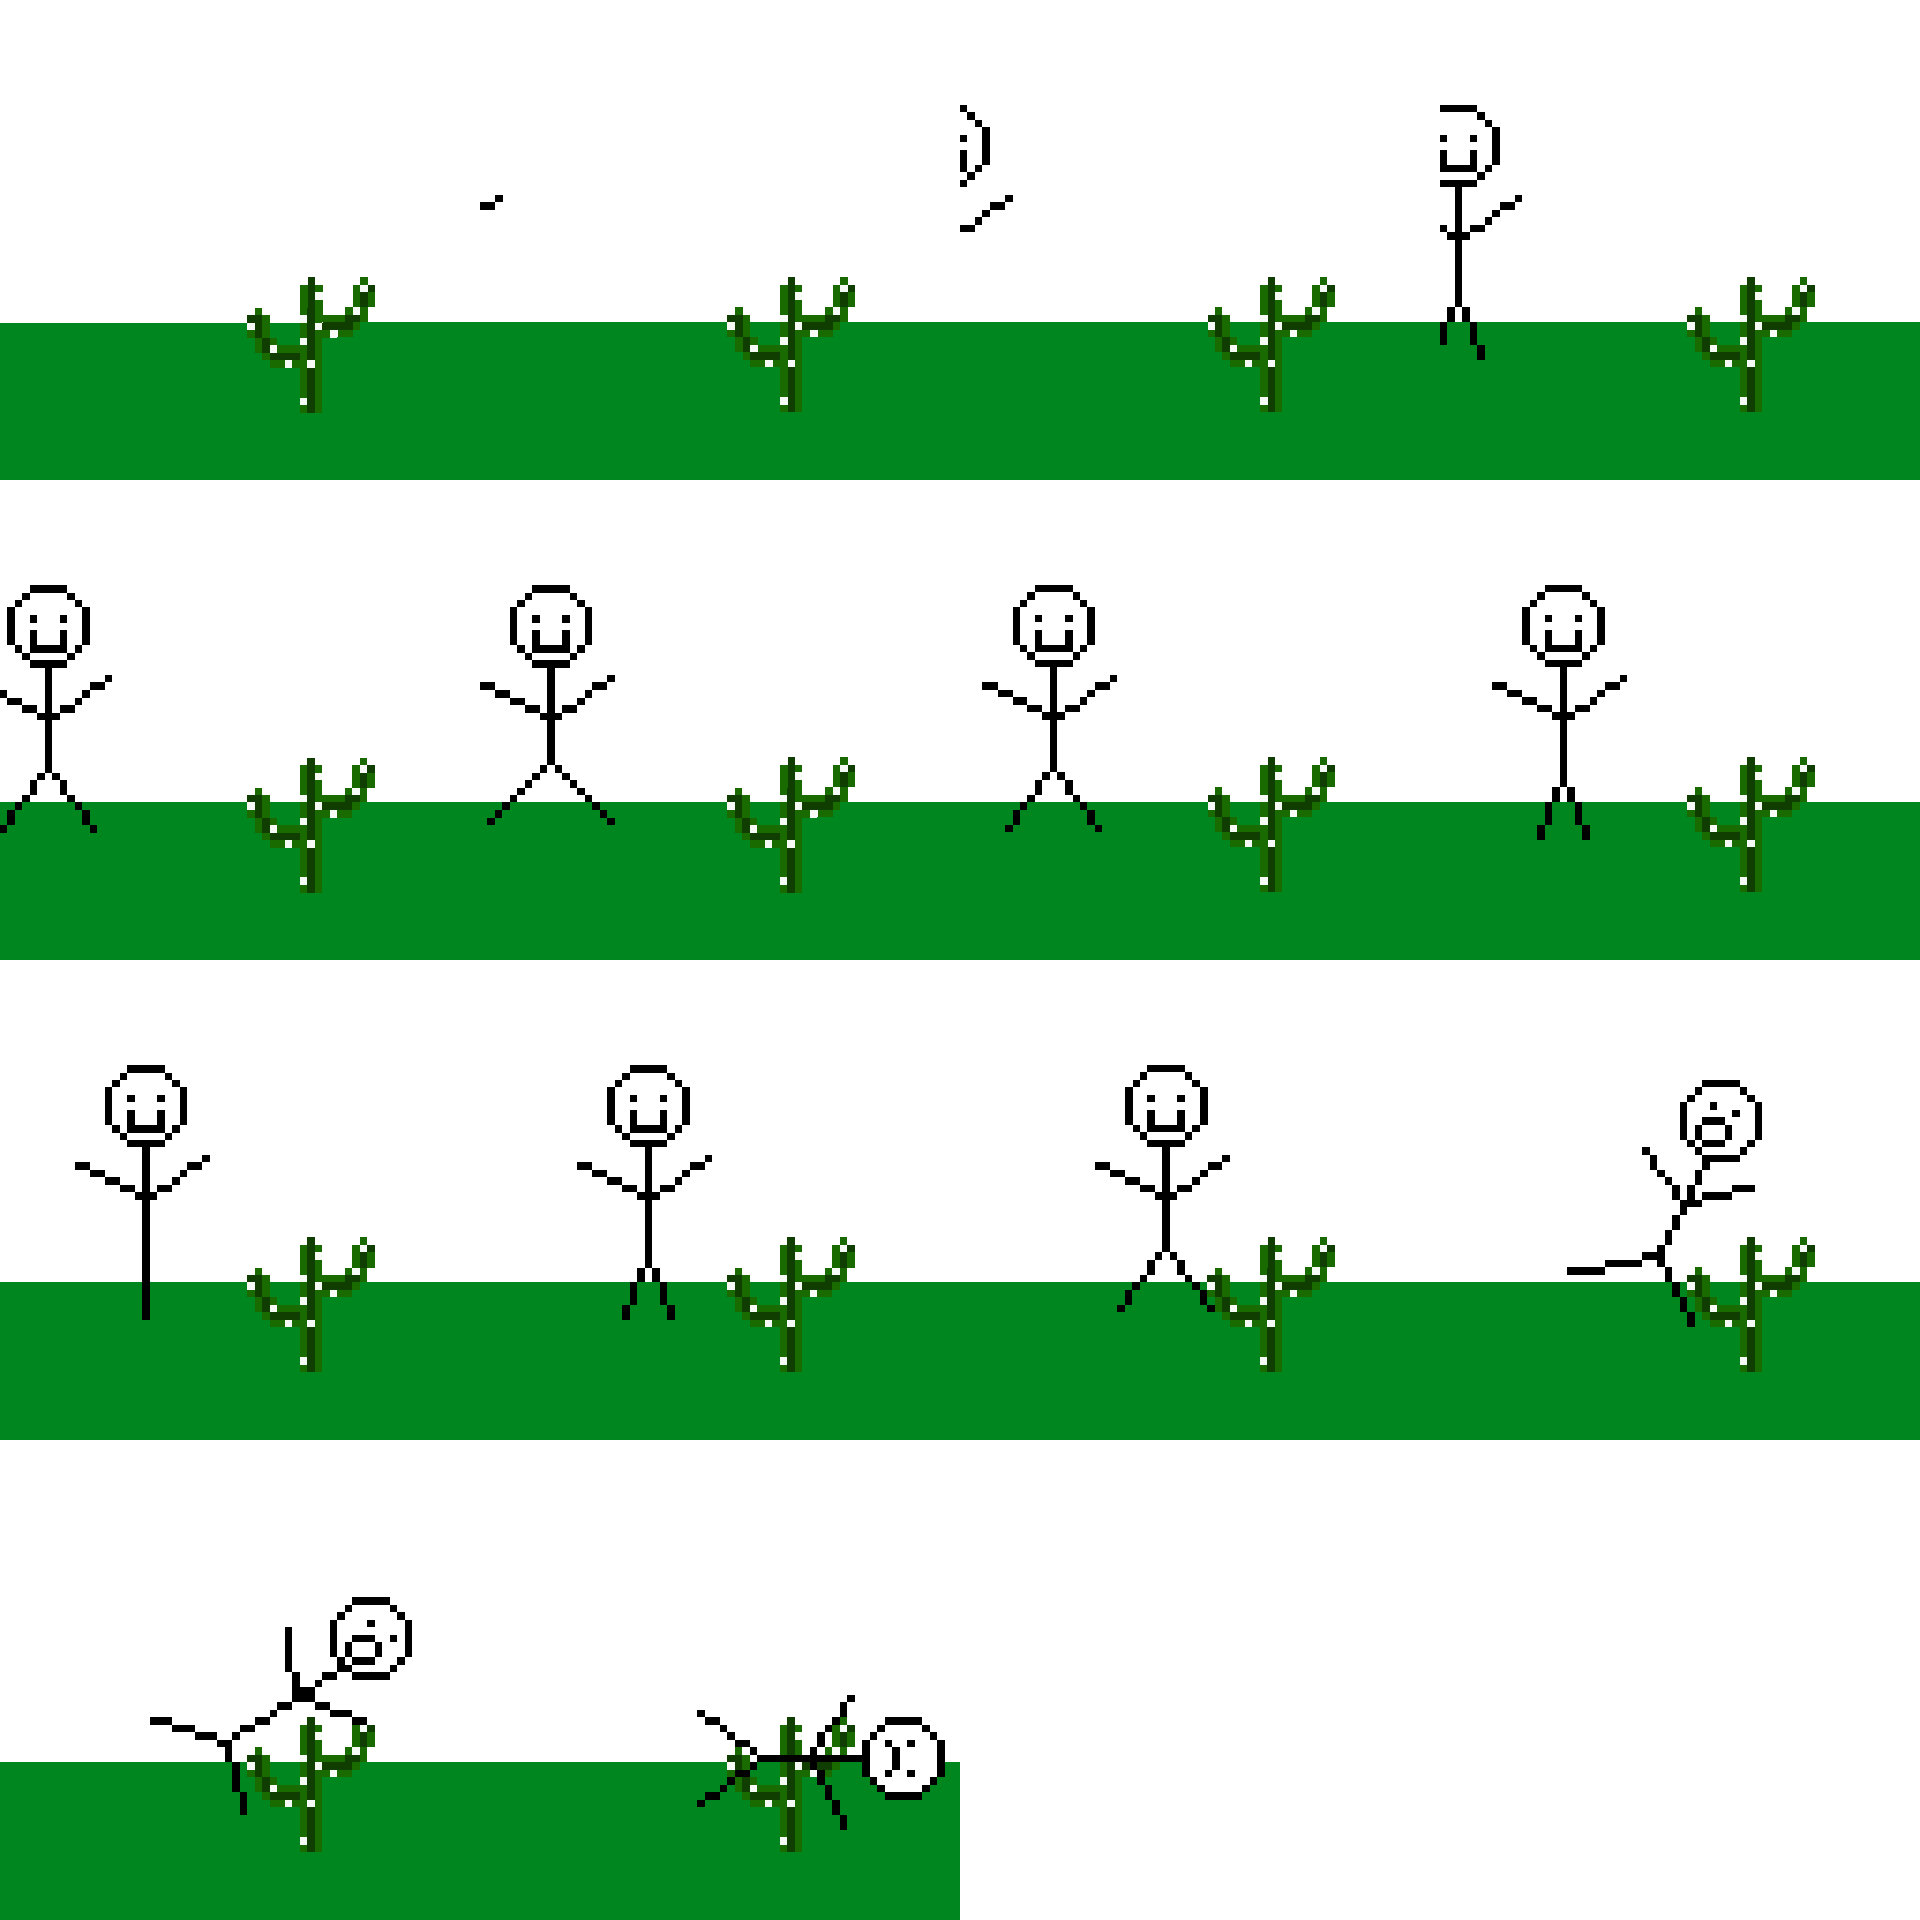
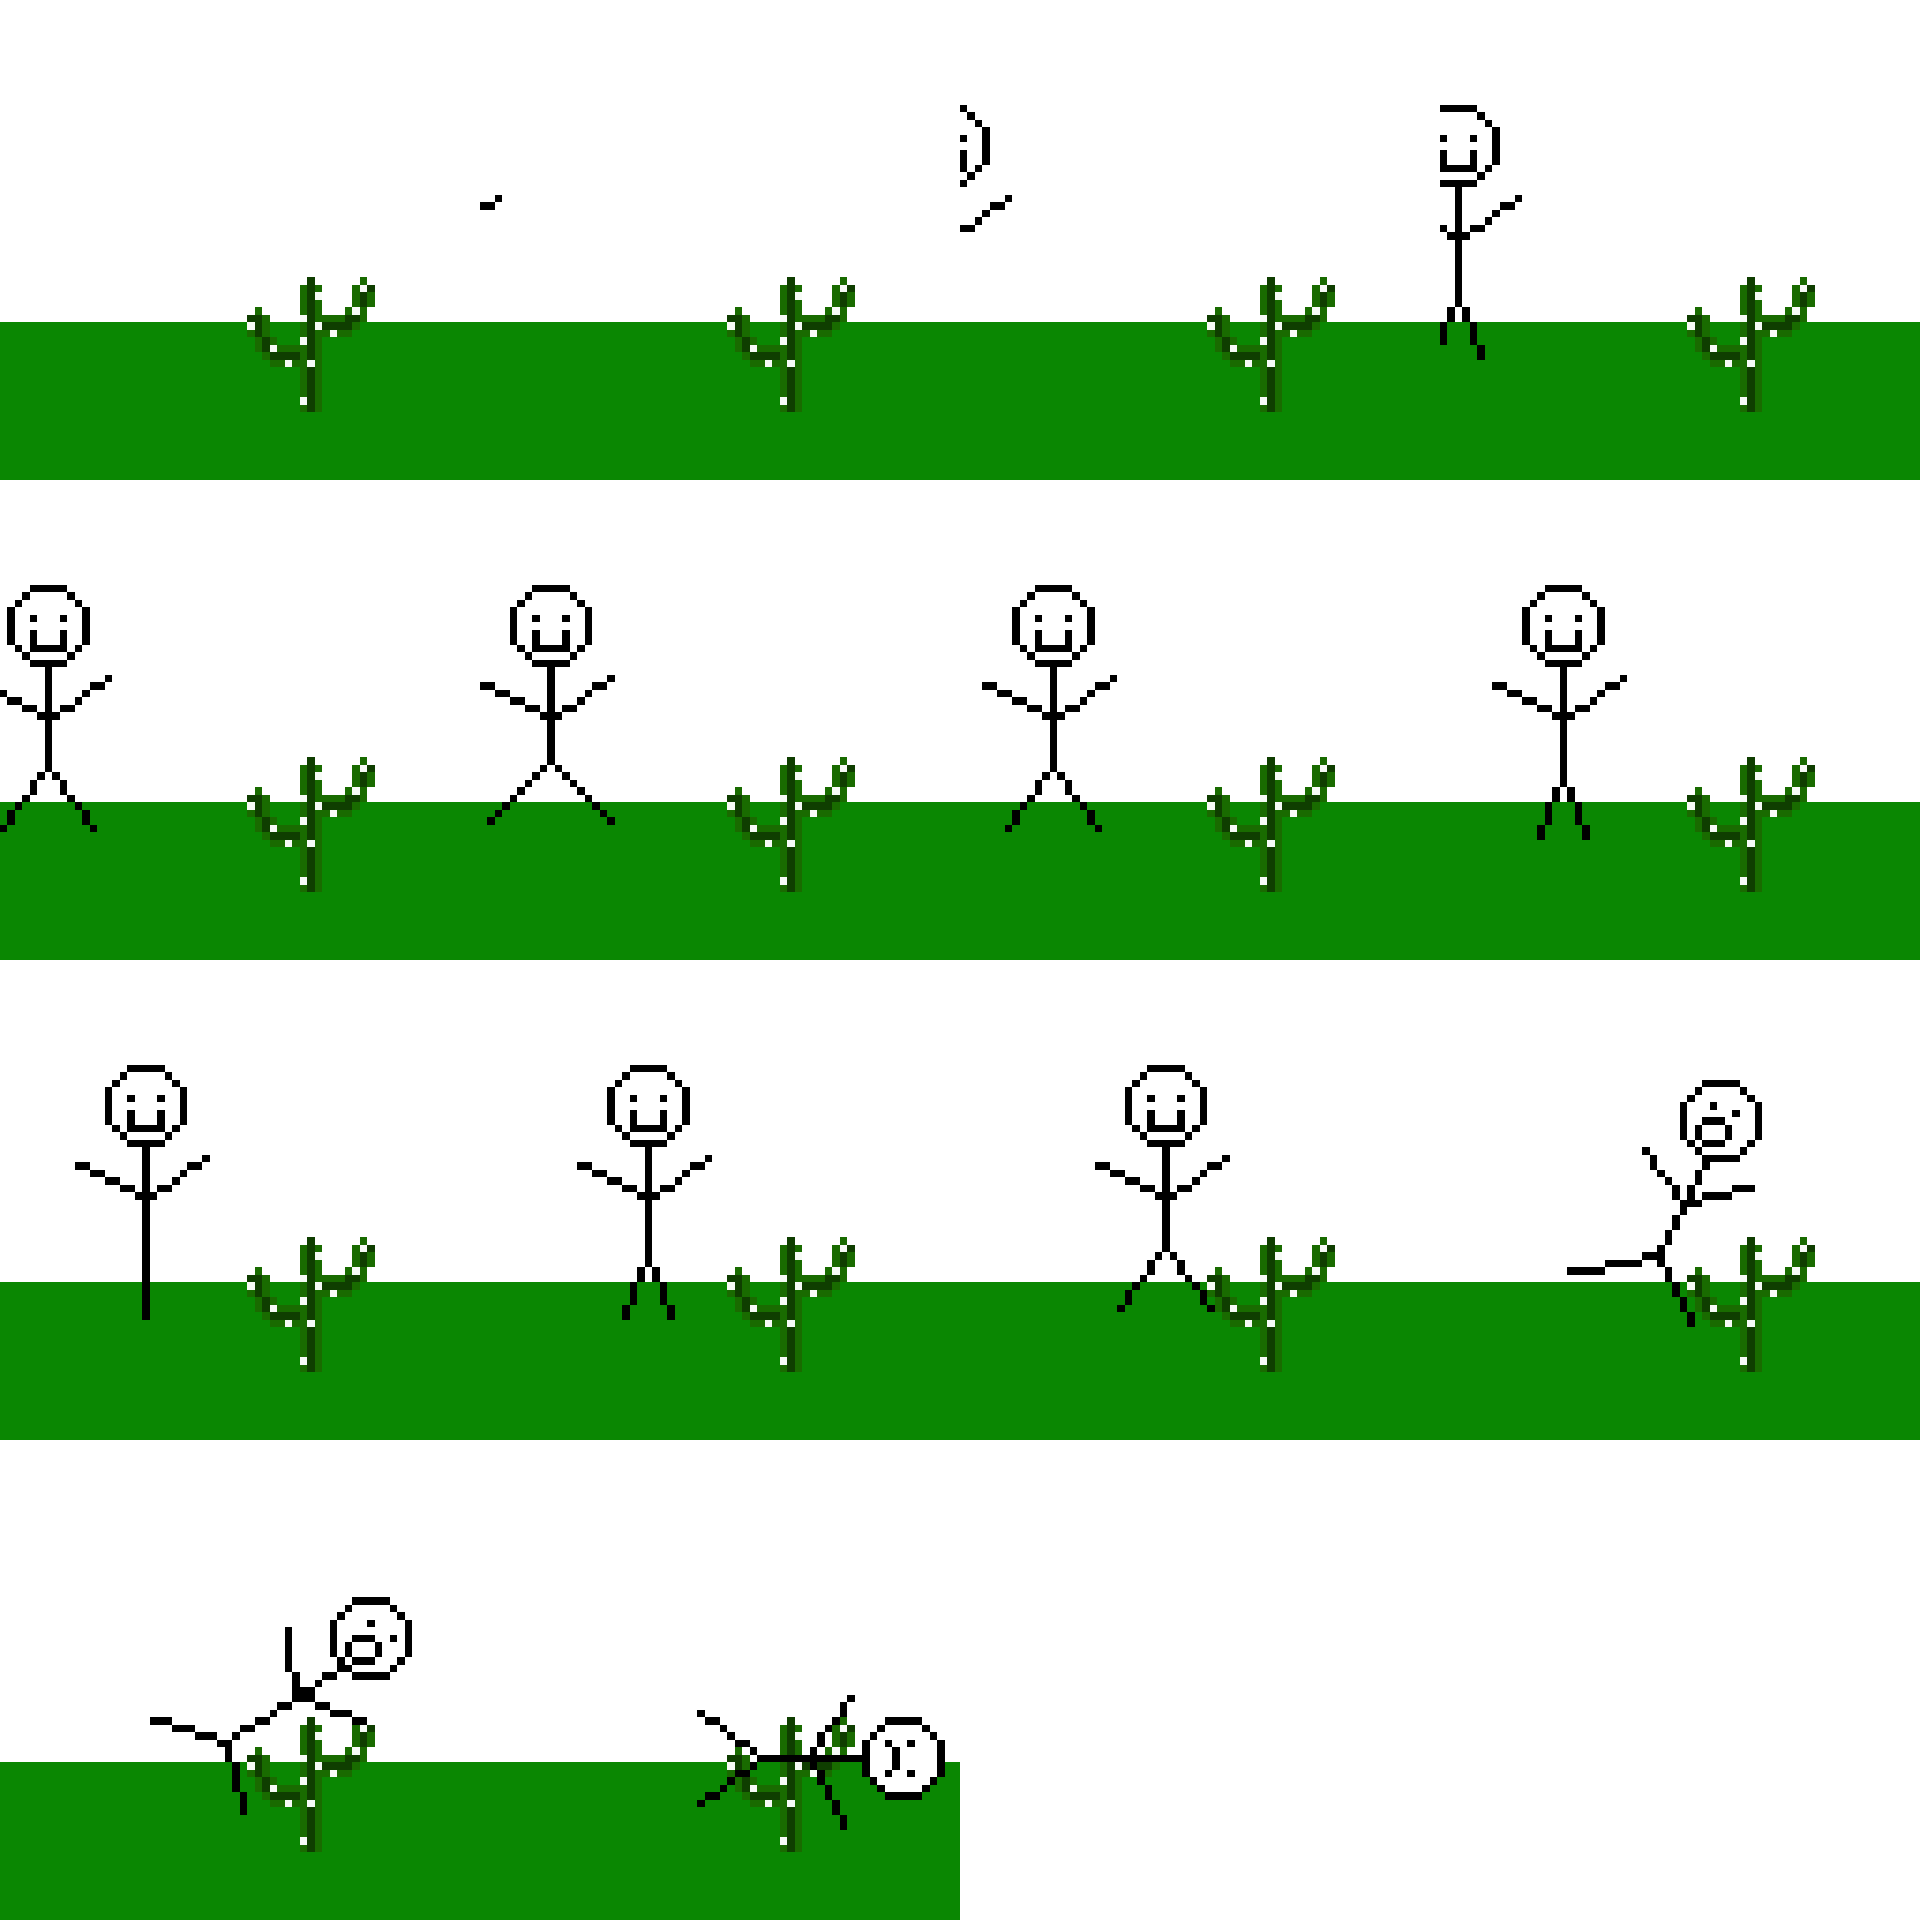
finish animations

diff --git a/app/front/public/animation_testing.html b/app/front/public/animation_testing.html
@@ -9,7 +9,7 @@
     <canvas id="draw_here" width="500" height="500" style="border:1px solid #000000;"></canvas>
     <div>
         <!--<p id="narration">{{narration}}</p>-->
-        <p id="narration">user was walking in the meadow on the hunt for a new pet goat when they slipped on someone's puddle of oil and was left to marinate in their big pool of blood.</p>
+        <p id="narration">user was walking in the meadow on the hunt for a new pet goat when they almost tripped over someone's pet duck, but then someone screamed "WATCH OUT!!!" just in time to end up saving their life.</p>
     </div>
     <script>
         var narration = document.getElementById("narration");
@@ -45,6 +45,27 @@
             img.push("./duck.png");
         } else if (narration.includes("thorny pet plant")) {
             img.push("./cactus.png");
+        } else if (narration.includes("empty soda can")) {
+            img.push("./soda.png");
+        } else if (narration.includes("jack-o-lantern")) {
+            img.push("./pumpkin.png");
+        } else if (narration.includes("piece of string")) {
+            img.push("./string.png");
+        }
+
+        var dead = true;
+        if (narration.includes("pool of blood")) {
+            img.push("./blood.png");
+        } else if (narration.includes("slowly decompose")) {
+            img.push("./rot.png");
+        } else if (narration.includes("never got up")) {
+            img.push("./dead.png");
+        } else if (narration.includes("freshly baked cookies")) {
+            dead = false;
+            img.push("./cookie.png");
+        } else {
+            dead = false;
+            img.push("./exclaim.png");
         }
 
         image.src = img[0];
@@ -80,11 +101,25 @@
                     image.onload = function() {
                         row = 0;
                         col = 0;
-                        intervalID = setInterval(animate, speed, 4, 4, 2);
+                        if (dead) {
+                            intervalID = setInterval(animate, speed, 4, 4, 2);
+                        } else {
+                            intervalID = setInterval(animate, speed, 3, 4, 2);
+                        }
                     }
                 } else if (tracker === "action") {
                     tracker = "result";
                     speed = 300;
+                    image.src=img[2];
+                    image.onload = function() {
+                        row = 0;
+                        col = 0;
+                        if (dead) {
+                            intervalID = setInterval(animate, speed, 3, 2, 1);
+                        } else {
+                            intervalID = setInterval(animate, speed, 4, 3, 2);
+                        }
+                    }
                 }
             }
 
